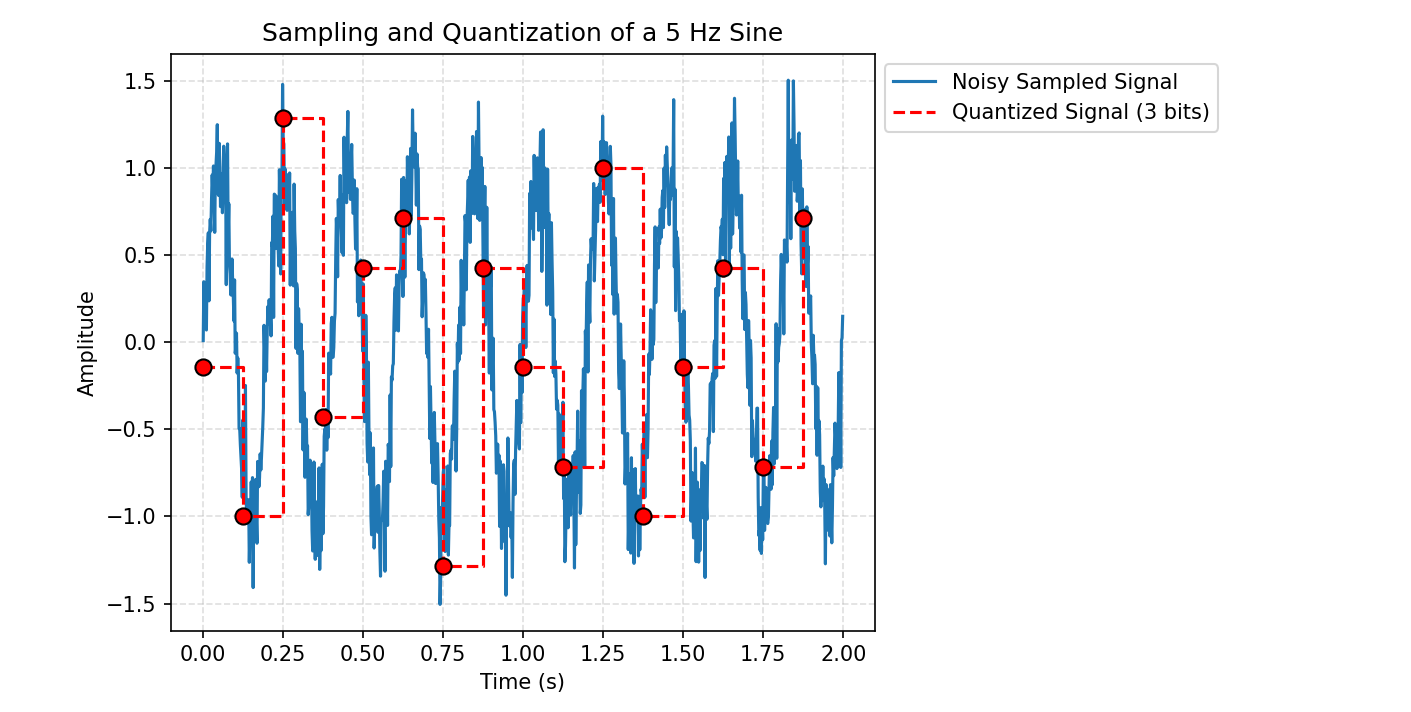
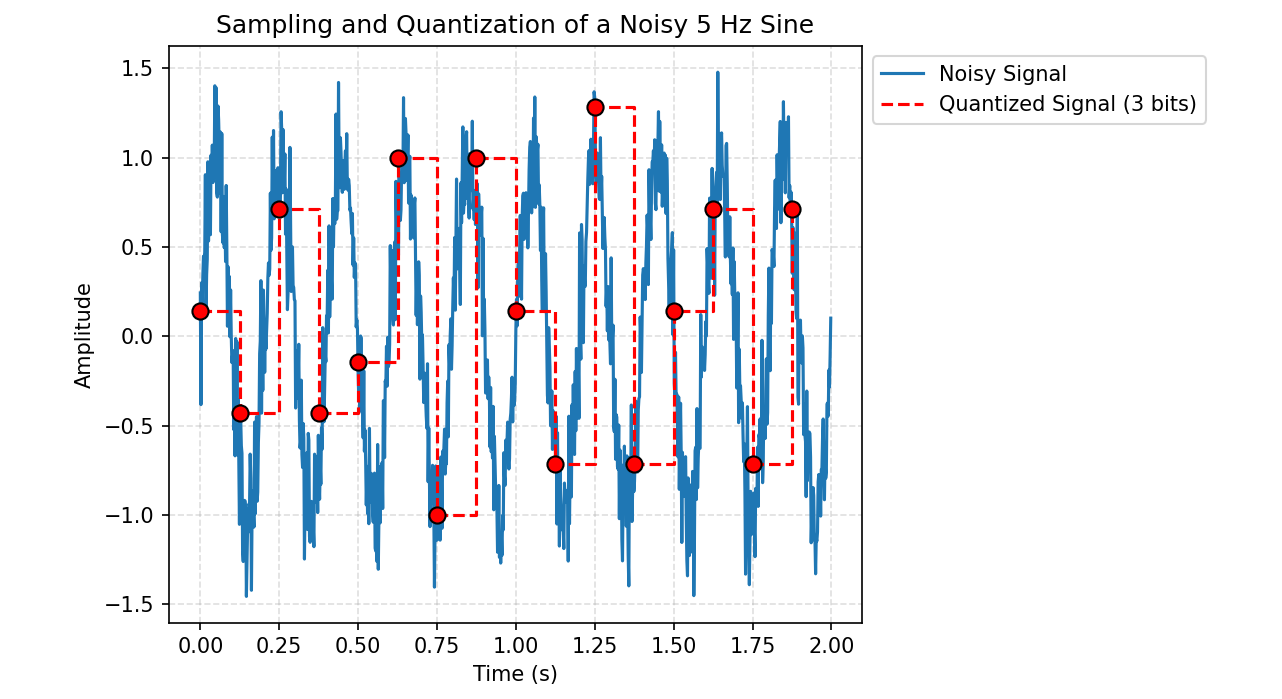
updated labels for error_noise_plot

Changed region(s): [[0.0312, 0.03, 0.936, 0.9914]]

diff --git a/image_formation/error_noise_analysis.py b/image_formation/error_noise_analysis.py
@@ -68,7 +68,7 @@ noisy_original_signal = add_gaussian_noise(const_signal, mean=noise_mean, std=no
 sampled_signal, t_sampled = create_sampled_signal() # Get the sampled
 noisy_sampled_signal = add_gaussian_noise(sampled_signal, noise_mean, noise_std) # Add noise to the sampled signal
 
-plt.plot(t_points, noisy_original_signal, label="Noisy Sampled Signal") # Plot the noisy sampled signal with respect to the times sampled
+plt.plot(t_points, noisy_original_signal, label="Noisy Signal") # Plot the noisy sampled signal with respect to the times sampled
 
 quantized_noisy_signal = quantize(noisy_sampled_signal) # Quantize the noisy sampled signal
 
@@ -100,7 +100,7 @@ plt.scatter(t_sampled, quantized_noisy_signal, s=60, zorder=3, color="r", edgeco
 
 plt.xlabel("Time (s)")
 plt.ylabel("Amplitude")
-plt.title("Sampling and Quantization of a 5 Hz Sine")
+plt.title("Sampling and Quantization of a Noisy 5 Hz Sine")
 plt.grid(True, linestyle="--", alpha=0.4)
 plt.legend(loc="best", bbox_to_anchor=(1, 1))
 plt.tight_layout()
